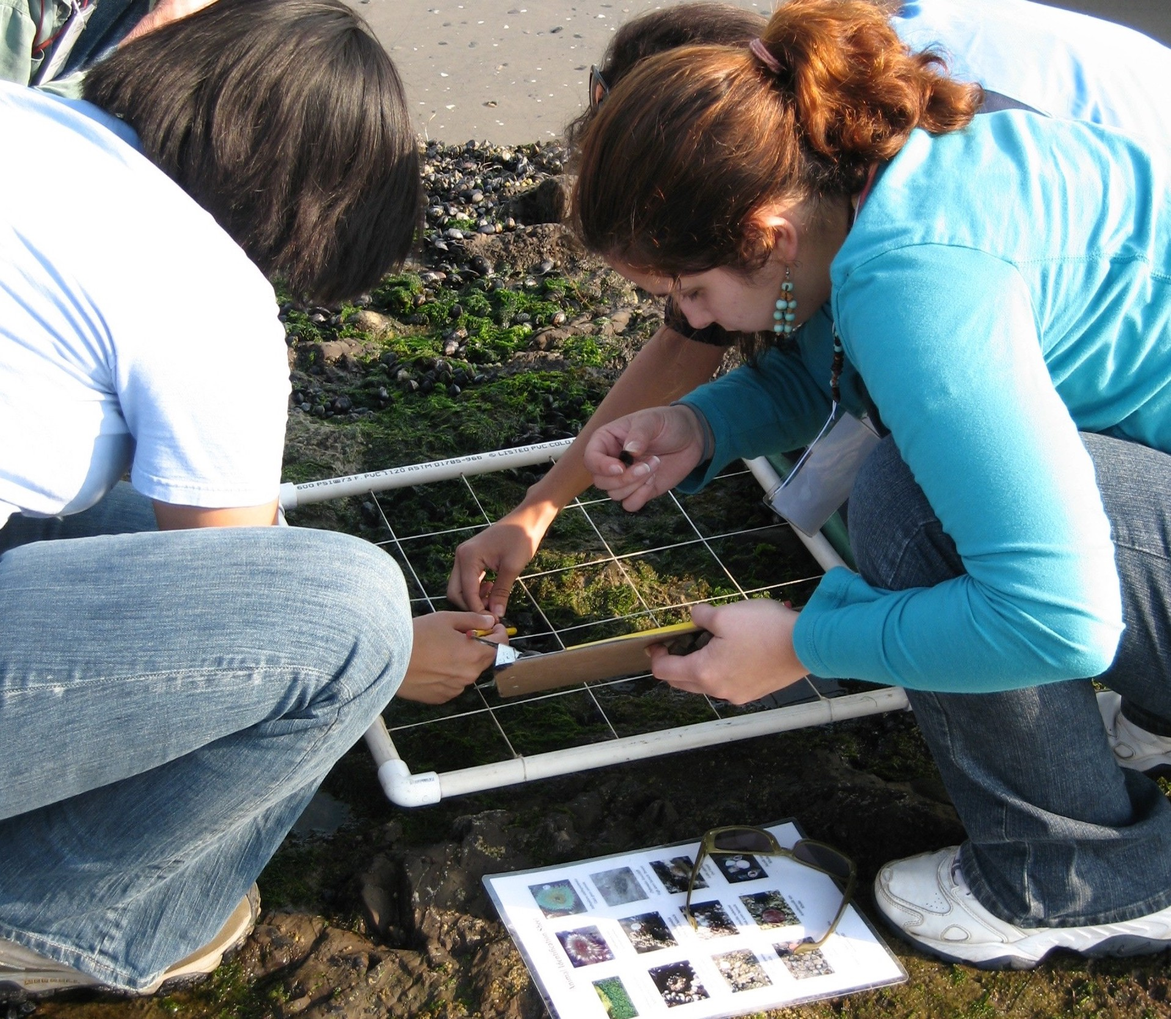
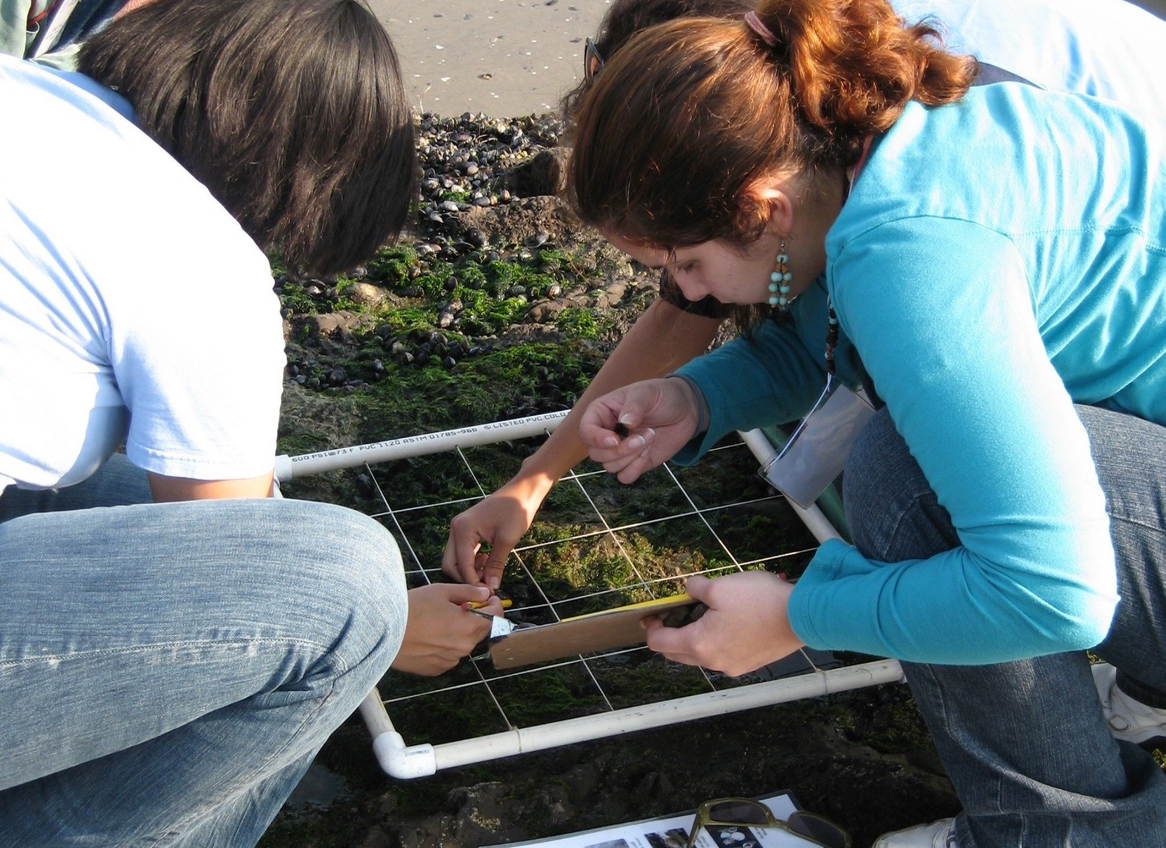
Opportunities Intern website update

diff --git a/bootstrap4-minimal/community/opportunity/index.md b/bootstrap4-minimal/community/opportunity/index.md
@@ -41,7 +41,7 @@ description: news and event in SBCLTER
       </div>
     </div>
     <div class="carousel-item">
-      <img class="d-block w-100" src="/assets/img/community/launch_instrument.jpg" alt="slide 2">
+      <img class="d-block w-100" src="/assets/img/community/launch_instrument2.jpg" alt="slide 2">
       <div class="carousel-caption d-none d-md-block">
         <div class="title">Oceanographic Research</div>
       </div>
